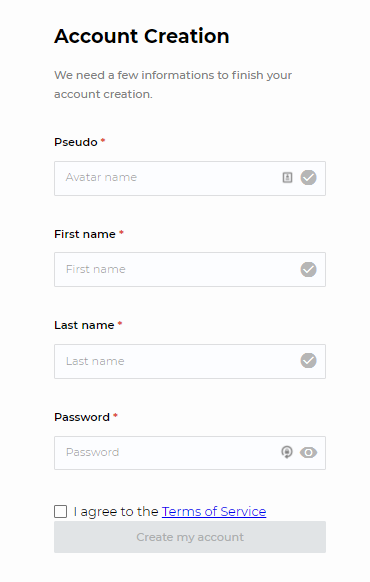
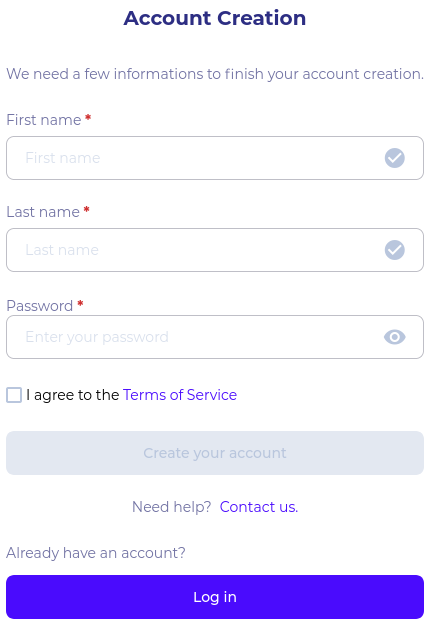
Update new account creation doc to conform with UI improvements

diff --git a/docs/getting_started/first_steps.md b/docs/getting_started/first_steps.md
@@ -1,18 +1,14 @@
 ## Getting started
 
-If you received an invitation to join a community and you do not already have an account on SEKOIA.IO, you will have to create one.
+The first time you will be added to community on SEKOIA.IO, you’ll receive an e-mail inviting you to create an account on SEKOIA.IO.
 
-When opening the invitation by clicking on 'OPEN INVITATION' button, you will arrive on the account creation page.
+After clicking on the “Join your new community” of the e-mail, the following form will be displayed:
 
 ![Account Creation Page](../assets/getting_started/account_creation.png)
 
-Fill-out the form while keeping in mind that **you won’t be able to change your username afterwards**.
+Fill-out the form with your first name, last name, a robust password and approve the terms of service by checking “I agree with the terms of service”.
 
-Check “I agree with the terms of service” and create your account.
-
-You will then have to accept the invitation to join the community.
-
-![Accept Invitation](../assets/getting_started/join_community.png)
+After clicking on “Create your account” button, you will be redirected to SEKOIA.IO.
 
 !!! note
     Your access will depend on the permissions you are granted in the community you joined.

diff --git a/docs/getting_started/index.md b/docs/getting_started/index.md
@@ -5,7 +5,7 @@
 SEKOIA.IO architecture couples the generation and operation of Threat Intelligence dynamic databases to a set of functions for analysis, guidance and treatment.
 This technology brings together automation, sharing of indicators and implementation of playbooks to treat, on a large scale and in real time, the flows exchanged and data from other tools already deployed on the networks (internal security logs).
 
-![SEKOIA.IO General Scheme](../assets/operation_center/general_scheme.png){: style="width: 50%; max-width: 50%"}
+![SEKOIA.IO General Scheme](../assets/operation_center/general_scheme.png)
 
 There are two main parts in SEKOIA.IO:
 
